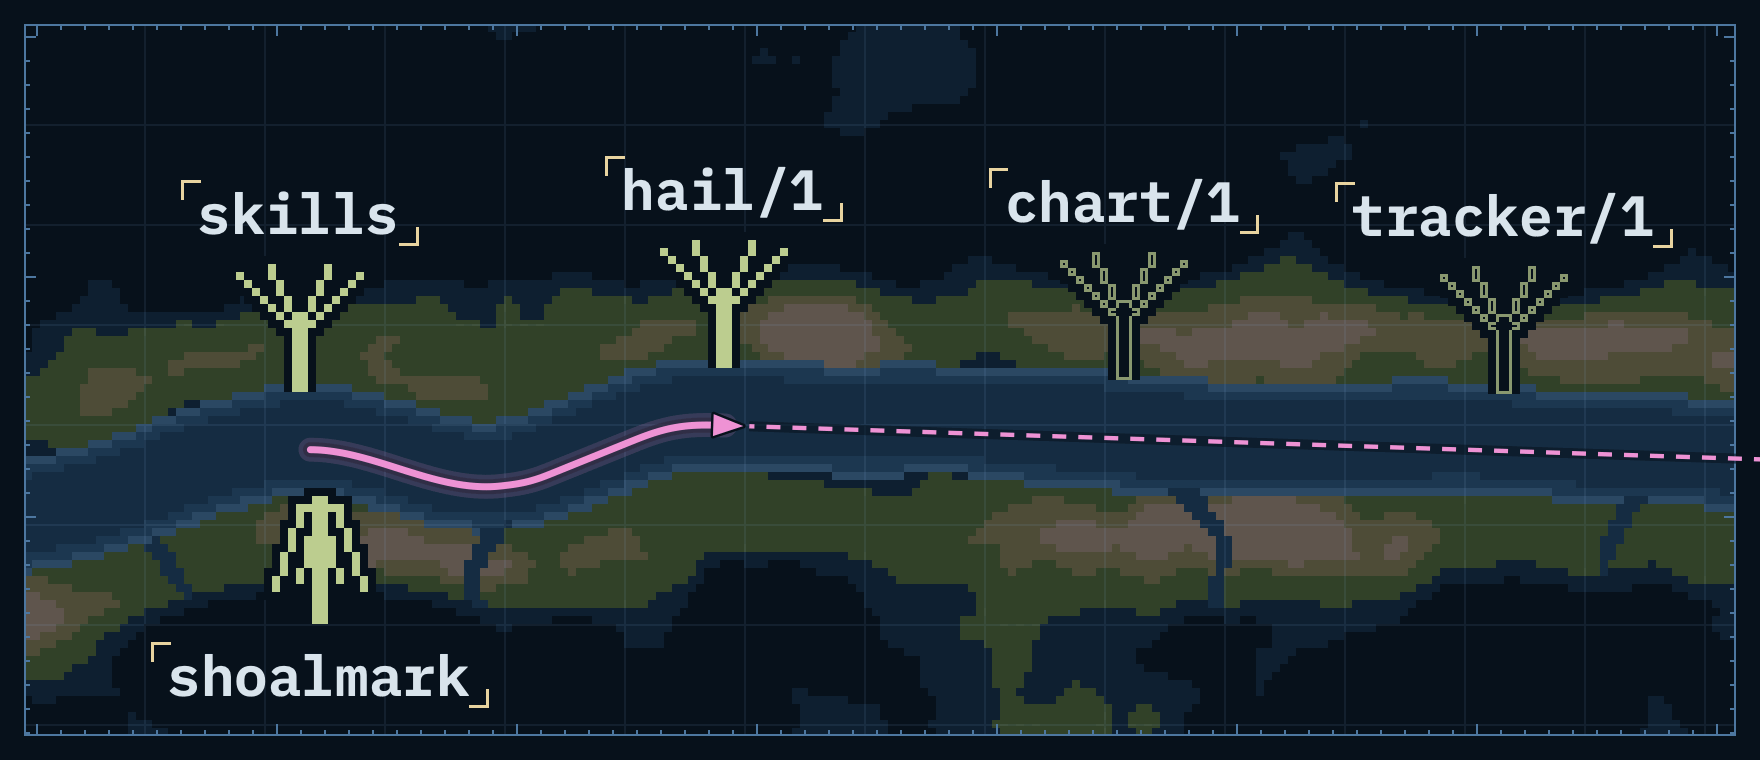
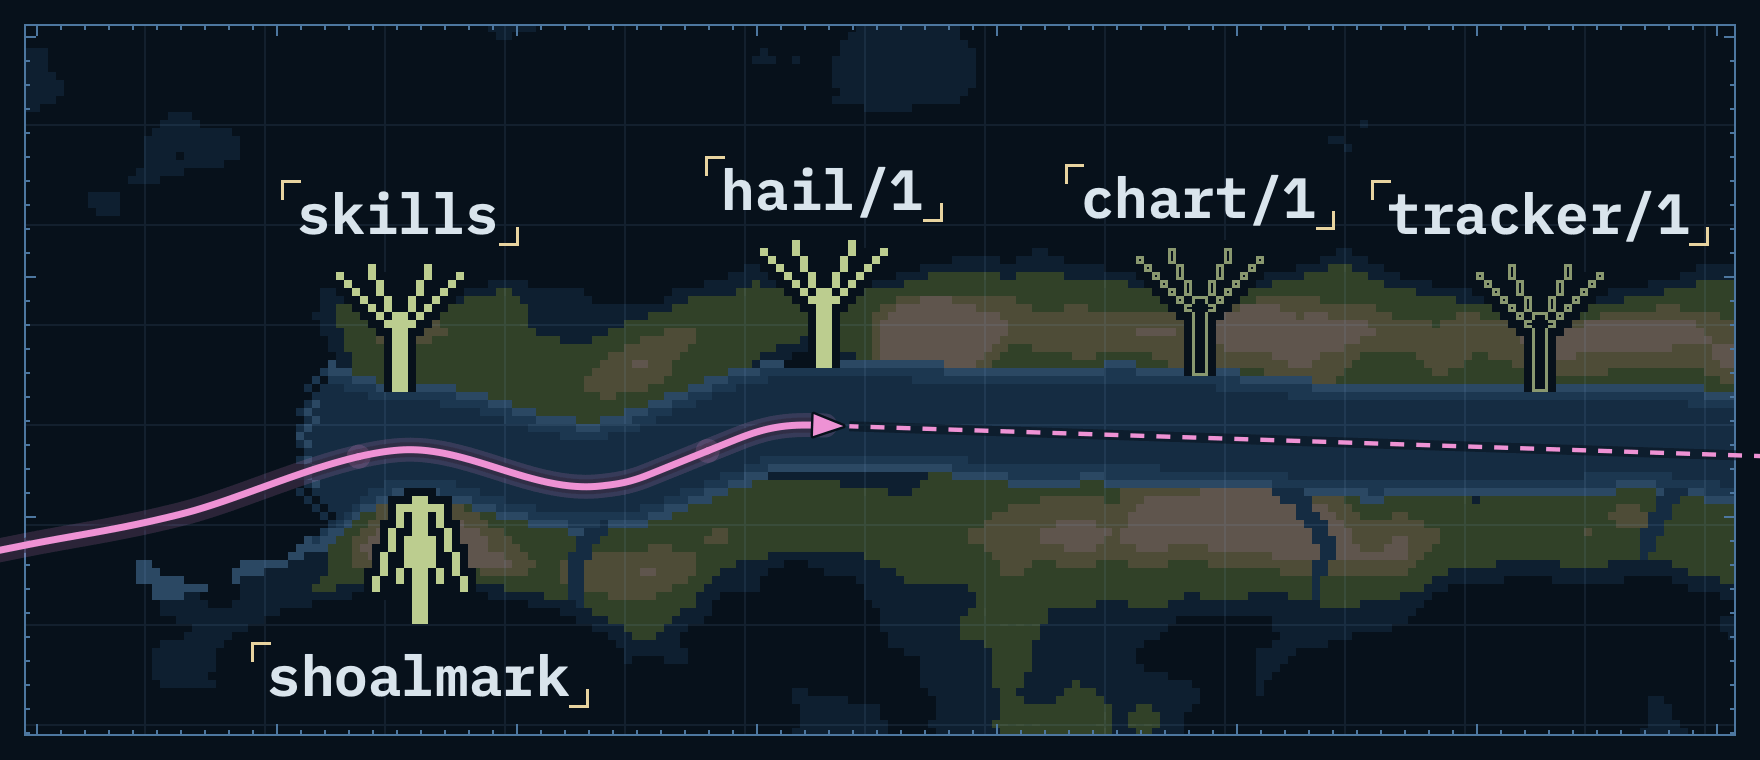
profile: the hero comes in from open water and enters the channel at its marked mouth; the alt text follows

diff --git a/profile/README.md b/profile/README.md
@@ -2,7 +2,7 @@
 
 <picture>
   <source media="(prefers-reduced-motion: reduce)" srcset="org-hero-still.png">
-  <img src="org-hero-once.gif" width="880" alt="A wide chart of shallow water seen from above, one channel winding through the shoals with marks on both banks. At the entry, ⌜shoalmark⌟ stands set on the lower bank, its twigs turned down, opposite ⌜skills⌟ on the upper bank; ⌜hail/1⌟ follows, set, then ⌜chart/1⌟ and ⌜tracker/1⌟, hollow, not yet set. A small pink vessel has come from the entry to ⌜hail/1⌟, its solid track behind it; its dashed heading line, swung once away from a shoal, runs on along the channel past the two planned marks and off the edge.">
+  <img src="org-hero-once.gif" width="880" alt="A wide chart seen from above: open, deep water at the left, then one channel winding through the shoals, marked on both banks. At its mouth, ⌜shoalmark⌟ stands set on the lower bank, its twigs turned down, opposite ⌜skills⌟ on the upper bank; ⌜hail/1⌟ follows, set, then ⌜chart/1⌟ and ⌜tracker/1⌟, hollow, not yet set. A small pink vessel has come in from the left edge, through the gate, to ⌜hail/1⌟, its solid track behind it; its dashed heading line, swung once away from a shoal, runs on along the channel past the two planned marks and off the edge.">
 </picture>
 
 *⌜shoalmark⌟ runs today; ⌜skills⌟ is ready to use and ⌜hail/1⌟ to read; ⌜chart/1⌟ and ⌜tracker/1⌟ are planned. Take up
